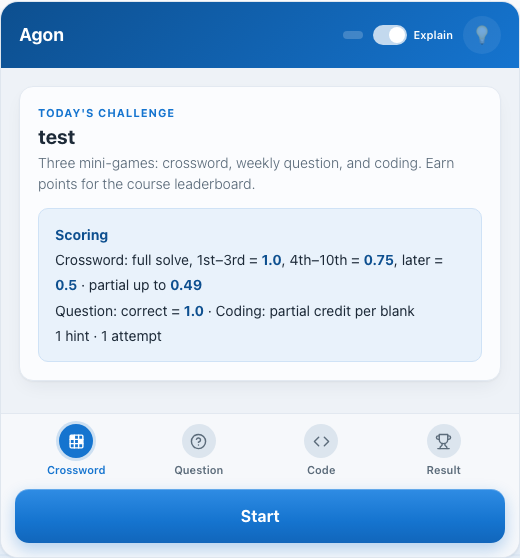
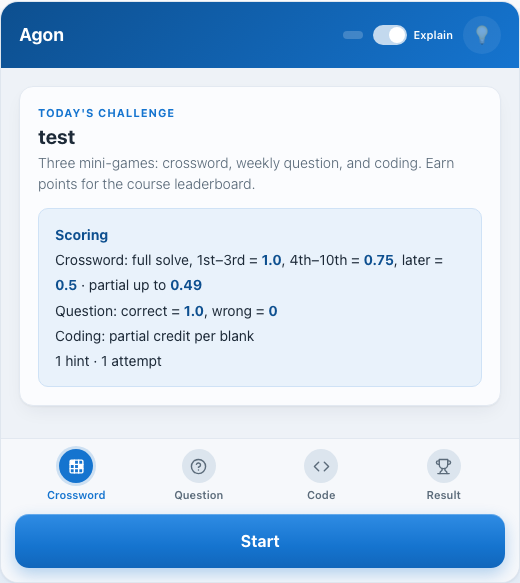
Remove testing replay mode; adapt start screen to enabled games
- Remove the "Play again" testing feature entirely: the results-screen
  card, the player.js handler, view.php's ?playagain= handler, the
  settings.php Testing section, attempt::reset() (+ its test), and the
  lang strings/docs. It was a dev-only replay aid and has no place in
  production; reset an attempt via CLI/DB when testing.
- Start screen now reflects the games the professor enabled: the intro
  line names only the chosen games (one/two/three) and the scoring key
  shows a line per enabled game (crossword line follows its grading
  mode); disabled games are omitted. Built in player.js from
  window.AGON, so the cwregular template var is gone.
- Coding feedback only says "See the correct code next" when Explain is
  on — with it off the review screen is skipped, so the nudge misled.

PHPUnit 102 green, Behat 6 scenarios/104 steps green (guards scenario now
asserts the single-game start screen). opening/completion screenshots
retaken.

diff --git a/amd/build/player.min.js b/amd/build/player.min.js
@@ -329,14 +329,33 @@ define(['core/ajax', 'core/notification'], function(Ajax, Notification) {
                 $('explain-toggle').addEventListener('change', applyExplain);
                 applyExplain();
             }
-            // Testing mode: the results screen offers a "Play again" (reset attempt) button.
-            if (D.testmode && $('testbar') && $('play-again')) {
-                $('testbar').hidden = false;
-                $('play-again').addEventListener('click', function() {
-                    var sk = (window.M && window.M.cfg && window.M.cfg.sesskey) ? window.M.cfg.sesskey : '';
-                    window.location.href = window.location.pathname + '?id=' + CMID + '&playagain=1&sesskey=' + encodeURIComponent(sk);
-                });
-            }
+            // Start screen: the intro line + the scoring key are built from the games the
+            // professor actually enabled — a game that is off is left out of both, and the
+            // crossword line follows its chosen grading mode.
+            (function renderStart() {
+                var labels = {crossword: 'crossword', question: 'weekly question', coding: 'coding'};
+                var chosen = ['crossword', 'question', 'coding'].filter(function(g) { return games[g]; });
+                var names = chosen.map(function(g) { return labels[g]; });
+                var countword = ['no', 'One', 'Two', 'Three'][names.length] || String(names.length);
+                var joined = names.length <= 1 ? (names[0] || '')
+                    : names.slice(0, -1).join(', ') + (names.length > 2 ? ',' : '') + ' and ' + names[names.length - 1];
+                if ($('start-lead')) {
+                    $('start-lead').textContent = names.length
+                        ? (countword + ' mini-game' + (names.length === 1 ? '' : 's') + ': ' + joined +
+                            '. Earn points for the course leaderboard.')
+                        : 'Earn points for the course leaderboard.';
+                }
+                var lines = [];
+                if (games.crossword) {
+                    lines.push((D.crossword && D.crossword.grading) === 'regular'
+                        ? 'Crossword: full solve = <b>1.0</b> &middot; partial = fraction of words correct (e.g. 4 of 10 = <b>0.40</b>)'
+                        : 'Crossword: full solve, 1st&ndash;3rd = <b>1.0</b>, 4th&ndash;10th = <b>0.75</b>, later = <b>0.5</b> &middot; partial up to <b>0.49</b>');
+                }
+                if (games.question) { lines.push('Question: correct = <b>1.0</b>, wrong = <b>0</b>'); }
+                if (games.coding) { lines.push('Coding: partial credit per blank'); }
+                lines.push('1 hint &middot; 1 attempt');
+                if ($('scorebox')) { $('scorebox').innerHTML = '<b>Scoring</b><br>' + lines.join('<br>'); }
+            })();
             // Timers depend on content (question options / coding lines) — fill the gates + pills.
             if (games.question) {
                 var qsecs0 = questionSeconds();
@@ -790,8 +809,11 @@ define(['core/ajax', 'core/notification'], function(Ajax, Notification) {
                         if ((mine[b] || '') === want) { correct++; }
                     });
                 });
+                // The "see the correct code next" nudge only applies when Explain is on —
+                // with it off, the review screen is skipped, so promising it would mislead.
                 fb('fb-code', correct === total, correct + ' of ' + total + ' blanks correct' +
-                    (correct === total ? ' — perfect!' : '') + ' — <b>' + Number(score).toFixed(2) + '</b> points. See the correct code next.');
+                    (correct === total ? ' — perfect!' : '') + ' — <b>' + Number(score).toFixed(2) + '</b> points.' +
+                    (explainOn() ? ' See the correct code next.' : ''));
             }
             function renderReview() {
                 var fbseqs = (feedback.coding && feedback.coding.sequences) || [];

diff --git a/amd/src/player.js b/amd/src/player.js
@@ -329,14 +329,33 @@ define(['core/ajax', 'core/notification'], function(Ajax, Notification) {
                 $('explain-toggle').addEventListener('change', applyExplain);
                 applyExplain();
             }
-            // Testing mode: the results screen offers a "Play again" (reset attempt) button.
-            if (D.testmode && $('testbar') && $('play-again')) {
-                $('testbar').hidden = false;
-                $('play-again').addEventListener('click', function() {
-                    var sk = (window.M && window.M.cfg && window.M.cfg.sesskey) ? window.M.cfg.sesskey : '';
-                    window.location.href = window.location.pathname + '?id=' + CMID + '&playagain=1&sesskey=' + encodeURIComponent(sk);
-                });
-            }
+            // Start screen: the intro line + the scoring key are built from the games the
+            // professor actually enabled — a game that is off is left out of both, and the
+            // crossword line follows its chosen grading mode.
+            (function renderStart() {
+                var labels = {crossword: 'crossword', question: 'weekly question', coding: 'coding'};
+                var chosen = ['crossword', 'question', 'coding'].filter(function(g) { return games[g]; });
+                var names = chosen.map(function(g) { return labels[g]; });
+                var countword = ['no', 'One', 'Two', 'Three'][names.length] || String(names.length);
+                var joined = names.length <= 1 ? (names[0] || '')
+                    : names.slice(0, -1).join(', ') + (names.length > 2 ? ',' : '') + ' and ' + names[names.length - 1];
+                if ($('start-lead')) {
+                    $('start-lead').textContent = names.length
+                        ? (countword + ' mini-game' + (names.length === 1 ? '' : 's') + ': ' + joined +
+                            '. Earn points for the course leaderboard.')
+                        : 'Earn points for the course leaderboard.';
+                }
+                var lines = [];
+                if (games.crossword) {
+                    lines.push((D.crossword && D.crossword.grading) === 'regular'
+                        ? 'Crossword: full solve = <b>1.0</b> &middot; partial = fraction of words correct (e.g. 4 of 10 = <b>0.40</b>)'
+                        : 'Crossword: full solve, 1st&ndash;3rd = <b>1.0</b>, 4th&ndash;10th = <b>0.75</b>, later = <b>0.5</b> &middot; partial up to <b>0.49</b>');
+                }
+                if (games.question) { lines.push('Question: correct = <b>1.0</b>, wrong = <b>0</b>'); }
+                if (games.coding) { lines.push('Coding: partial credit per blank'); }
+                lines.push('1 hint &middot; 1 attempt');
+                if ($('scorebox')) { $('scorebox').innerHTML = '<b>Scoring</b><br>' + lines.join('<br>'); }
+            })();
             // Timers depend on content (question options / coding lines) — fill the gates + pills.
             if (games.question) {
                 var qsecs0 = questionSeconds();
@@ -790,8 +809,11 @@ define(['core/ajax', 'core/notification'], function(Ajax, Notification) {
                         if ((mine[b] || '') === want) { correct++; }
                     });
                 });
+                // The "see the correct code next" nudge only applies when Explain is on —
+                // with it off, the review screen is skipped, so promising it would mislead.
                 fb('fb-code', correct === total, correct + ' of ' + total + ' blanks correct' +
-                    (correct === total ? ' — perfect!' : '') + ' — <b>' + Number(score).toFixed(2) + '</b> points. See the correct code next.');
+                    (correct === total ? ' — perfect!' : '') + ' — <b>' + Number(score).toFixed(2) + '</b> points.' +
+                    (explainOn() ? ' See the correct code next.' : ''));
             }
             function renderReview() {
                 var fbseqs = (feedback.coding && feedback.coding.sequences) || [];

diff --git a/view.php b/view.php
@@ -42,14 +42,6 @@ require_login($course, true, $cm);
 
 $modulecontext = context_module::instance($cm->id);
 
-// Testing aid: reset this user's attempt so they can replay, gated by the site
-// 'testmode' setting (and sesskey). Real courses leave testmode off.
-if (optional_param('playagain', 0, PARAM_BOOL) && get_config('mod_agon', 'testmode')) {
-    require_sesskey();
-    \mod_agon\local\attempt::reset($moduleinstance->id, $USER->id);
-    redirect(new moodle_url('/mod/agon/view.php', ['id' => $cm->id]));
-}
-
 $event = \mod_agon\event\course_module_viewed::create([
     'objectid' => $moduleinstance->id,
     'context' => $modulecontext,
@@ -90,8 +82,6 @@ if ($view === 'student') {
         'crossword' => $public['crossword'],
         'questions' => $public['questions'],
         'coding' => $public['coding'],
-        // Testing mode → the play view shows a "Play again" (reset attempt) button.
-        'testmode' => (bool)get_config('mod_agon', 'testmode'),
         // The leaderboard is fetched live (mod_agon_get_leaderboard) once the run finishes.
     ];
 } else {
@@ -117,15 +107,14 @@ if ($view === 'student') {
     $PAGE->requires->js(new moodle_url($jsfile, ['v' => filemtime($CFG->dirroot . $jsfile)]), false);
 }
 
+// The student start screen (games list + scoring key) is built by player.js from
+// window.AGON — enabled games + crossword grading — so nothing game-specific is
+// needed in the template payload here.
 $templatedata = [
     'name' => format_string($moduleinstance->name),
     'subject' => $topic,
     'week' => $week,
 ];
-if ($view === 'student') {
-    // Show the crossword scoring blurb that matches the chosen grading mode.
-    $templatedata['cwregular'] = (($public['crossword']['grading'] ?? 'custom') === 'regular');
-}
 
 echo $OUTPUT->header();
 echo $OUTPUT->render_from_template('mod_agon/' . $view, $templatedata);

diff --git a/tests/attempt_test.php b/tests/attempt_test.php
@@ -243,19 +243,6 @@ final class attempt_test extends \advanced_testcase {
         $this->assertEqualsWithDelta([1.0, 1.0, 1.0, 1.0, 1.0], $scores, 1e-9);
     }
 
-    public function test_reset_deletes_the_attempt(): void {
-        global $DB;
-        $user = $this->getDataGenerator()->create_user();
-        $a = attempt::start($this->agon->id, $user->id);
-        attempt::submit_game($a, 'question', ['selected' => 1]);
-        attempt::reset($this->agon->id, $user->id);
-        $this->assertFalse($DB->record_exists('agon_attempt', ['id' => $a->id]));
-        // A fresh start gets a brand-new row with no submissions.
-        $fresh = attempt::start($this->agon->id, $user->id);
-        $this->assertNotEquals($a->id, $fresh->id);
-        $this->assertSame([], attempt::submitted_games($fresh));
-    }
-
     public function test_summary_is_webservice_shaped(): void {
         $user = $this->getDataGenerator()->create_user();
         $a = attempt::start($this->agon->id, $user->id);

diff --git a/classes/local/attempt.php b/classes/local/attempt.php
@@ -269,21 +269,6 @@ class attempt {
     }
 
     /**
-     * Delete this student's attempt so they can play the activity again.
-     *
-     * Testing aid only — gated by the site 'testmode' setting at the call site
-     * (view.php). Wipes the attempt row (and thus its leaderboard entry); the
-     * gradebook grade is recomputed on the next finish.
-     *
-     * @param int $agonid
-     * @param int $userid
-     */
-    public static function reset(int $agonid, int $userid): void {
-        global $DB;
-        $DB->delete_records('agon_attempt', ['agonid' => $agonid, 'userid' => $userid]);
-    }
-
-    /**
      * A web-service-friendly summary of an attempt (no answers).
      *
      * @param stdClass $attempt

diff --git a/lang/en/agon.php b/lang/en/agon.php
@@ -72,6 +72,3 @@ $string['aibadjson'] = 'The AI did not return valid game JSON. Try again or edit
 $string['aifileunsupported'] = 'Only PDF and PPTX files can be uploaded.';
 $string['aiextractfailed'] = 'Could not read text from that file. For scanned PDFs, upload a PPTX or paste the text instead.';
 $string['invalidsequence'] = 'That coding sequence does not exist.';
-$string['testsettings'] = 'Testing';
-$string['testmode'] = 'Testing mode (allow replays)';
-$string['testmode_desc'] = 'When on, a "Play again" button appears on the results screen and lets any user reset their attempt and replay. For a test site only — leave off in a real course.';

diff --git a/settings.php b/settings.php
@@ -50,12 +50,5 @@ if ($hassiteconfig) {
         $settings->add(new admin_setting_configtext('mod_agon/aimodel',
             new lang_string('aimodel', 'mod_agon'),
             new lang_string('aimodel_desc', 'mod_agon'), 'gemini-2.5-flash', PARAM_RAW_TRIMMED));
-
-        $settings->add(new admin_setting_heading('mod_agon/testhdr',
-            new lang_string('testsettings', 'mod_agon'), ''));
-
-        $settings->add(new admin_setting_configcheckbox('mod_agon/testmode',
-            new lang_string('testmode', 'mod_agon'),
-            new lang_string('testmode_desc', 'mod_agon'), 0));
     }
 }

diff --git a/plan.md b/plan.md
@@ -56,7 +56,7 @@ Goal: **honest play faster than cheating**. **Server-side:** authoritative scori
   8. ✅ **Privacy provider.** Real `mod_agon\privacy\provider` (metadata + export + delete + userlist) replacing the `null_provider`.
   9. ⏳ **Enforced timers + randomization.** Server compares its `timestart` against submit time (client countdown becomes display-only); per-attempt question selection from the pool. One known (rare) race remains here: wrap the crossword finish-rank count in a transaction/lock — two simultaneous full solves can currently claim the same rank. *(The other race — `attempt::start` vs the unique key — was fixed in 0.3.1: the insert catches the collision and re-fetches.)*
   10. ✅ **Tests (0.3.1).** PHPUnit: 103 tests / ~95% line coverage over `classes/` + `lib.php` (engine, all 11 web services, lib callbacks, events, generator, privacy, AI with mocked HTTP; `tests/coverage.php` whitelist). Behat: student full run incl. crossword typing + lazy-loaded coding, mid-run resume, teacher monitor + Question bank + bank save, guard rails. Node: the crossword builder engine. **Pending:** `moodle-plugin-ci` in CI.
-- **Phase 3 — Authoring + AI + polish (landed 2026-07, releases 0.2.0 → 0.3.1).** ✅ Question bank tab (manual ⇄ JSON, per-game Save + validation); ✅ crossword builder engine + preview; ✅ AI generation (Gemini default / Claude / ChatGPT, copy-prompt fallback, Google Docs/Slides fetch, PDF/PPTX upload); ✅ dual crossword grading; ✅ coding lazy-load; ✅ hint rework (one per attempt, per-game effects, 50/50); ✅ Explain toggle; ✅ site Testing mode (replay); ✅ option-scaled question timer + per-line coding budget.
+- **Phase 3 — Authoring + AI + polish (landed 2026-07, releases 0.2.0 → 0.3.1).** ✅ Question bank tab (manual ⇄ JSON, per-game Save + validation); ✅ crossword builder engine + preview; ✅ AI generation (Gemini default / Claude / ChatGPT, copy-prompt fallback, Google Docs/Slides fetch, PDF/PPTX upload); ✅ dual crossword grading; ✅ coding lazy-load; ✅ hint rework (one per attempt, per-game effects, 50/50); ✅ Explain toggle; ✅ option-scaled question timer + per-line coding budget; ✅ start screen adapts to the enabled games + their grading.
 - **Phase 4 — Full experience (open).** Daily challenge + streaks; glossary/question-bank import; question-pool rotation; screen transitions + micro-animations; dark mode; **backup/restore**; touch drag support. *(Already landed early: Moodle-blue theme, searchable/filterable monitor, branded puzzle-cube icon.)*
 
 ## 9. Notes & open questions

diff --git a/docs/architecture.md b/docs/architecture.md
@@ -20,7 +20,7 @@ Technical companion to [plan.md](../plan.md). This describes *how* `mod_agon` is
 
 ## How it renders in Moodle
 
-- **`view.php`** loads the instance, branches on **`mod/agon:manage`** (monitor for teachers, play for students), and builds `window.AGON` from `content::public_for_render()` — clues, options and *coding metadata* only; never a `correct` index, crossword letters or coding `blanks`/code. If nothing is playable (toggle off, or empty/invalid JSON) the student gets a "not configured" notice instead of banking a zero-score run. In site **Testing mode** it also honours `?playagain=1` (attempt reset).
+- **`view.php`** loads the instance, branches on **`mod/agon:manage`** (monitor for teachers, play for students), and builds `window.AGON` from `content::public_for_render()` — clues, options and *coding metadata* only; never a `correct` index, crossword letters or coding `blanks`/code. If nothing is playable (toggle off, or empty/invalid JSON) the student gets a "not configured" notice instead of banking a zero-score run.
 - **Student play** is the AMD module `mod_agon/player` (`amd/src/player.js`), booted with `js_call_amd(..., [cmid])`. It drives everything through the web services and renders verdicts only from the server's reveal-on-submit feedback. No grunt in the dev container, so `amd/build/*.min.js` are hand-mirrored copies.
 - **Teacher monitor** is plain `js/professor.js` over the real attempt data in `window.AGON` (name search + state filter + course leaderboard).
 - **Question bank** (`bank.php` + `templates/bank.mustache` + `amd/src/bank.js`) is a secondary-navigation tab added in `agon_extend_settings_navigation` for `mod/agon:manage` holders. Manual ⇄ JSON editors per game, the crossword **builder** (`amd/src/crossword.js`, a pure deterministic layout engine shared with the preview), per-game Save through `mod_agon_save_content`, and the shared **Generate with AI** panel.
@@ -86,7 +86,6 @@ AJAX external functions (shared traits: `uses_agon_context` for cm/capability re
 ## Admin settings (`settings.php`)
 
 - **AI:** `aienable` (off by default), `aiprovider` (google/anthropic/openai), `aiapikey` (or `$CFG->forced_plugin_settings['mod_agon']['aiapikey']` in config.php), `aimodel` (default `gemini-2.5-flash`).
-- **Testing mode:** `testmode` — surfaces the results-screen "Play again" reset for test sites.
 
 ## Moodle APIs
 

diff --git a/README.md b/README.md
@@ -105,9 +105,7 @@ Moodle runs at **http://localhost:8000**.
 
 To see the **student** game, log in as `agonstu` (an incognito window is cleanest); as admin you get the **teacher monitor**. Avoid "Switch role to Student" — it leaves a hybrid edit state.
 
-### 🧪 Testing mode (replay without rebuilding)
-
-One attempt per student is enforced. For testing, turn on **Site administration → Plugins → Activity modules → Agon → Testing mode**: a **Play again** button then appears on the results screen and resets your attempt. (Leave it **off** in a real course.)
+One attempt per student is enforced. To replay while testing, clear the row: `DELETE FROM mdl_agon_attempt WHERE userid = <id>;` (or via `php admin/cli/...`).
 
 ### 🤖 Enabling AI generation
 
@@ -136,8 +134,8 @@ Teachers can always use **Copy prompt** with no key.
 | `db/access.php`, `db/services.php` | capabilities; web-service definitions |
 | `mod_form.php` | settings form — just the three game toggles |
 | `bank.php`, `templates/bank.mustache`, `amd/src/bank.js` | the **Question bank** authoring screen (manual/JSON, crossword builder, AI generation) |
-| `settings.php` | admin settings — AI provider/key/model + **Testing mode** |
-| `view.php` | branches student play / teacher monitor; builds answer-free `window.AGON`; handles `?playagain=1` (test mode) |
+| `settings.php` | admin settings — AI provider/key/model |
+| `view.php` | branches student play / teacher monitor; builds answer-free `window.AGON` |
 | `classes/local/` | engine: `content` (answer-split + feedback/hint + lazy sequence), `scoring`, `attempt`, `leaderboard`, `ai` |
 | `classes/external/` | web services: `start_attempt`, `submit_game`, `finish_attempt`, `get_hint`, **`get_sequence`**, `get_leaderboard`, `save_content`, `ai_prompt`, `ai_generate`, `fetch_source`, `extract_file` |
 | `classes/privacy/provider.php` | privacy provider (attempts: export + delete) |
